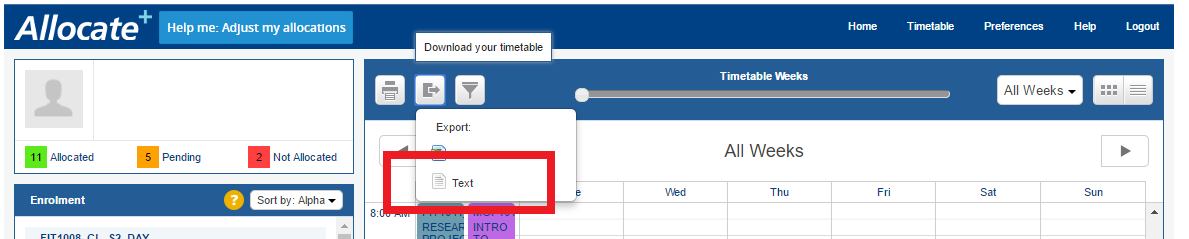
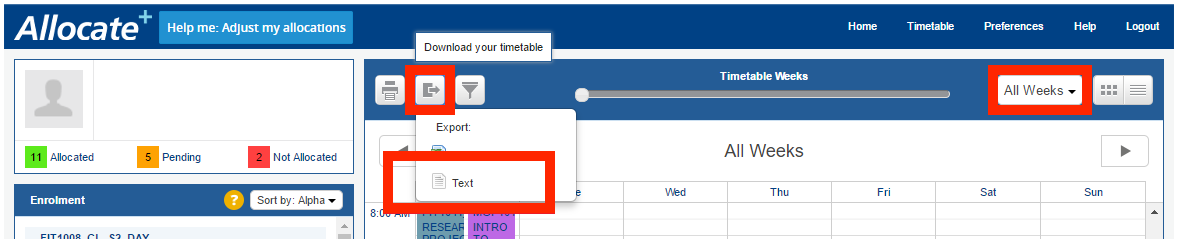
Allocate image change

Changed region(s): [[0.3112, 0.6151, 0.4668, 0.9079], [0.8091, 0.2636, 0.9336, 0.4979], [0.3423, 0.2636, 0.4045, 0.4979]]

diff --git a/login/index.html b/login/index.html
@@ -674,6 +674,9 @@
             #calendar{
                 display: block;
             }
+            #currently_viewing_list{
+                display: block;
+            }
             .l8{
                 width: 100%;
                 float: left
